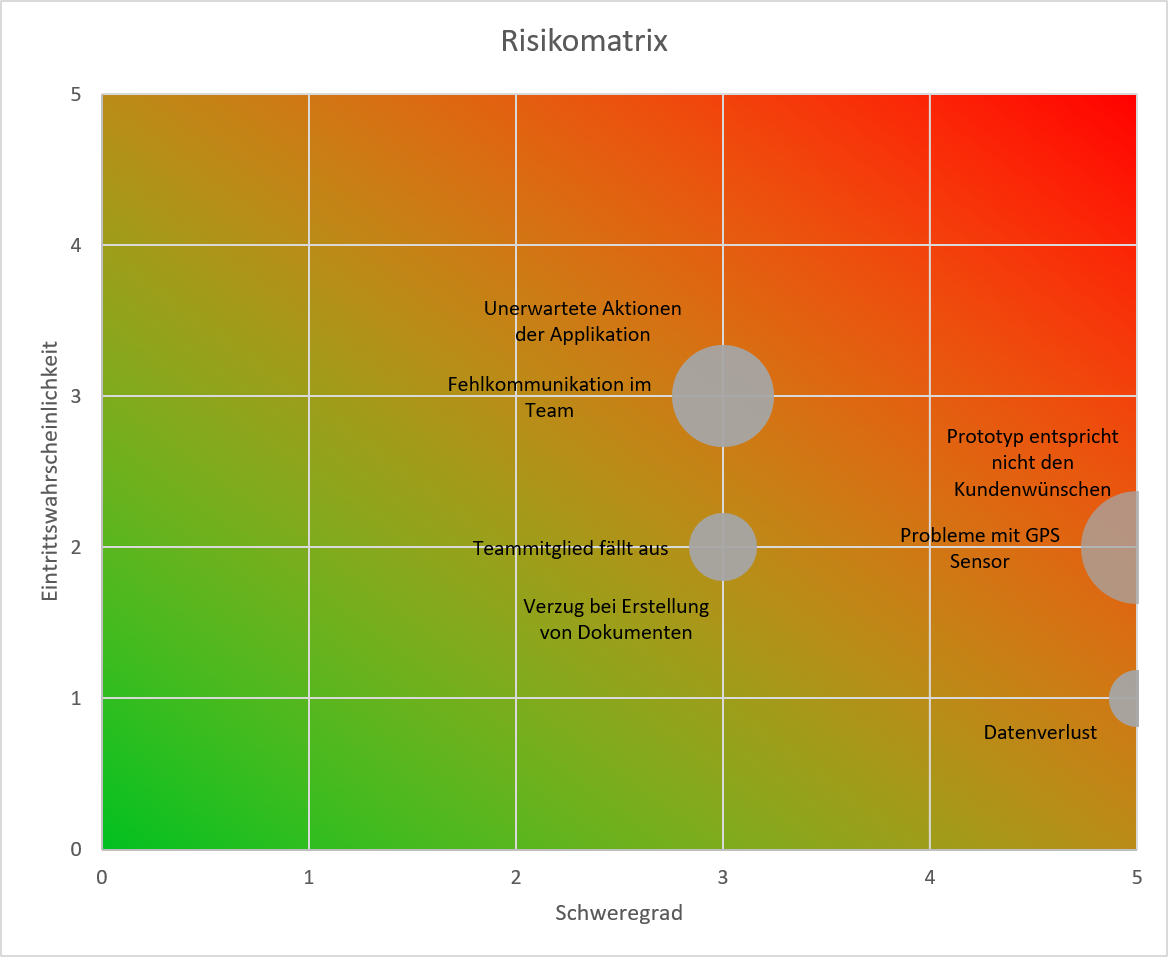
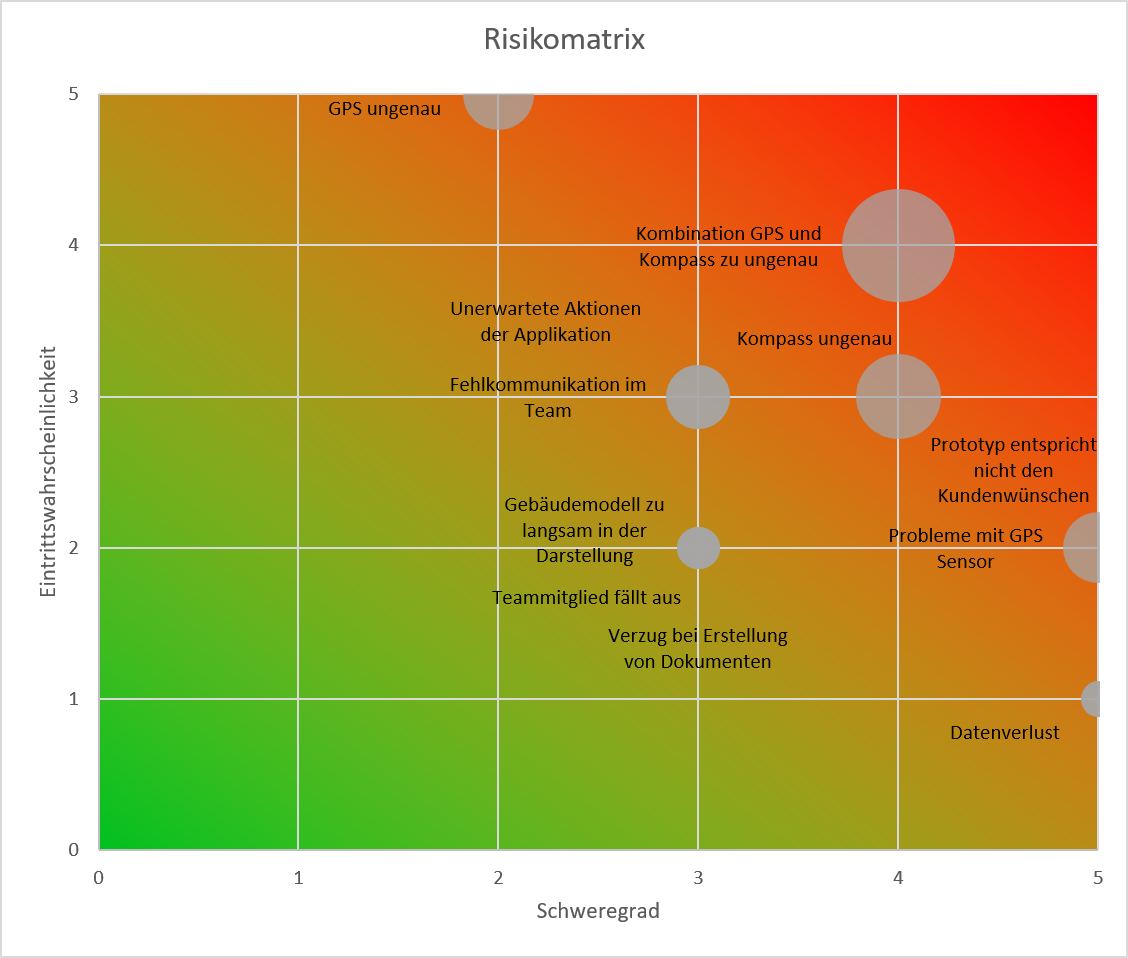
Update risk tables and matrices

diff --git a/PAWI_HS18_Projektdokumentation.tex b/PAWI_HS18_Projektdokumentation.tex
@@ -961,6 +961,14 @@ Legende:
 	\hline
 	7 & Unerwartete Aktionen der Applikation & T & 3 & 3 & 9\\
 	\hline
+	8 & GPS ungenau & T & 2 & 5 & 10\\
+	\hline
+	9 & Kompass ungenau & T & 4 & 3 & 12\\
+	\hline
+	10 & Kombination GPS und Kompass zu ungenau & T & 4 & 4 & 16\\
+	\hline
+	11 & Gebäudemodell zu langsam in der Darstellung & T & 3 & 2 & 6\\
+	\hline
 \end{tabular}
 
 \vspace{1em}
@@ -991,6 +999,14 @@ Legende:
 	\hline
 	7 & Applikation wird nach CleanCode Standards entwickelt und durch Teammitglieder validiert\\
 	\hline
+	8 & Es werden mehrere Messungen zusammengefasst und der Median deren berechnet\\
+	\hline
+	9 & In einer Initialisierungsphase wird der Kompass kalibriert\\
+	\hline
+	10 & Dem Benutzer wird die Möglichkeit gegeben die Initialisierungsphase manuell neu zu starten\\
+	\hline
+	11 & Das Laden des Gebäudemodells geschieht in der Initialisierungsphase, welche nicht abgeschlossen ist solange das Gebäude nicht verfügbar ist\\
+	\hline
 \end{tabular}
 
 \subsubsection{Effekt der Massnahmen}
@@ -1014,6 +1030,14 @@ Legende:
 	6 & Probleme mit GPS Sensor & T & 5 & 1 & 5 \\
 	\hline
 	7 & Unerwartete Aktionen der Applikation & T & 2 & 2 & 4\\
+	\hline
+	8 & GPS ungenau & T & 2 & 5 & 10\\
+	\hline
+	9 & Kompass ungenau & T & 4 & 3 & 12\\
+	\hline
+	10 & Kombination GPS und Kompass zu ungenau & T & 4 & 4 & 16\\
+	\hline
+	11 & Gebäudemodell zu langsam in der Darstellung & T & 3 & 2 & 6\\
 	\hline
 \end{tabular}
 
